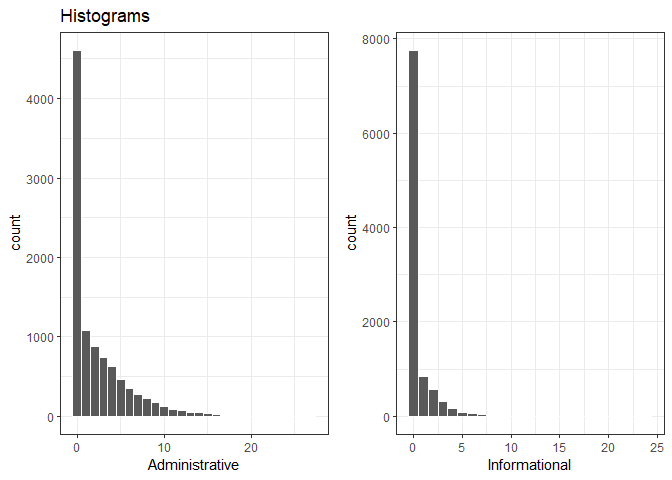
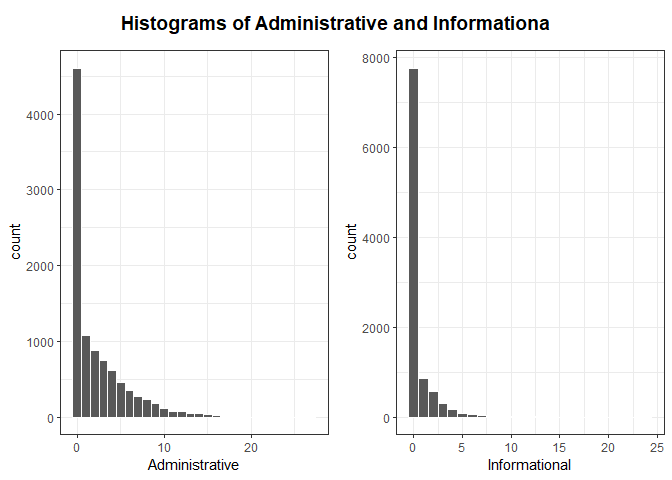
changed the plot for cat vars and added the team members' names, changed the link to EDA in readme

diff --git a/src/EDA.md b/src/EDA.md
@@ -60,16 +60,11 @@ if (is_empty(col_na)){
 
 ``` r
 plot_1 <- ggplot(mydata, aes(Administrative)) + 
-  geom_histogram(binwidth = 1, color = 'white') +
-  labs(
-    title = "Histograms"
-  ) + 
+  geom_histogram(binwidth = 1, color = 'white') + 
   theme_bw()
 plot_2 <- ggplot(mydata, aes(Informational)) + 
-  geom_histogram(binwidth = 1, color = 'white') +
-  labs(
-    title = " "
-  ) + theme_bw()
+  geom_histogram(binwidth = 1, color = 'white') + 
+  theme_bw()
 plot_3 <- mydata %>% 
   ggplot(aes(x = ProductRelated, y = stat(count) / sum(count), color=Revenue)) + 
   geom_freqpoly(binwidth = 1) + 
@@ -78,7 +73,9 @@ plot_3 <- mydata %>%
     title = "Frequency polygons of ProductRelated"
   ) + theme_bw()
 options(repr.plot.width = 30, repr.plot.height = 6)
-plot_grid(plot_1, plot_2, nrow=1)
+p <- plot_grid(plot_1, plot_2, nrow=1)
+title <- ggdraw() + draw_label("Histograms of Administrative and Informationa", fontface='bold')
+plot_grid(title, p, ncol=1, rel_heights=c(0.1, 1))
 ```
 
 ![](EDA_files/figure-gfm/loading%20the%20data-1.png)<!-- -->
@@ -239,11 +236,18 @@ mydata %>%
 mydata %>% 
   select(cat_vars, Revenue) %>% 
   gather("num_vars", "values", -Revenue) %>% 
-  ggplot(aes(x=values, fill=Revenue)) +
-  geom_bar(stat = "count", position = "dodge") +
+  group_by(Revenue, values, num_vars) %>% 
+  summarise(n = n()) %>% 
+  group_by(Revenue, num_vars) %>% 
+  mutate(freq = n / sum(n)) %>% 
+  ggplot(aes(x=values, y=freq, fill=Revenue)) +
+  geom_col(position = "dodge")+
+  scale_y_continuous(labels = scales::percent) +
   facet_wrap(~num_vars, scales  ="free", nrow = 4) +
   labs(
-    title = "Distributions of the categorical variables"
+    title = "Distributions of the categorical variables",
+    x = "Categorical variables",
+    y = "Frequency"
   ) + 
   theme_bw()
 ```

diff --git a/README.md b/README.md
@@ -1,6 +1,8 @@
 # DSCI522_309
 Workflows Analysis Project for DSCI 522
 
+- Authors: Lesley Miller, Cheng Min, Shivam Verma
+
 # Project Proposal
 
 ## Data Source
@@ -21,7 +23,7 @@ Our preprocessing and analysis plan should consist of the following activities:
 - Decide a methodology for outlier treatment & feature selection
 
 
-## Exploratory Data Analysis, [see here](https://github.com/vermashivam679/DSCI522_309/blob/master/src/EDA.md)  
+## Exploratory Data Analysis, [see here](https://github.com/UBC-MDS/DSCI522_309/blob/master/src/EDA.md)  
 We plan to show a grid of bar plots detailing the frequency distributions of the 8 categorical variables. It will be a series of side-by-side barplots, one plot for each variable. For example, with type of web browser the plot would show the number of sessions with a specific brower for sales and no sales. 
 
 One data table we plan to show is the cumulative quantile distribution for the quantitative variables. For example, the table would show the cumulative distribution of users' time duration spent on the webpage.
